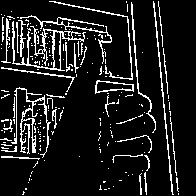
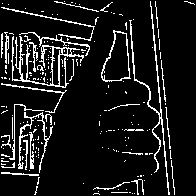
Updated preprocessing pipelines comparison

diff --git a/showcase_collect_preprocessing.py b/showcase_collect_preprocessing.py
@@ -60,7 +60,7 @@ def showcase_preprocessing(inp_shape):
                         "I,G,T-tm-b7-c(3)",
                         "I,G,T-tg-b3-c(3)",
                         "I,G,T-tg-b5-c(3)",
-                        "I,G,T-tg-b5-c(3)"]
+                        "I,G,T-tg-b7-c(3)"]
 
         # Setting up preprocessing sequential pipelines
         pipelines_list = [build_preprocessing(inp_shape=inp_shape,
